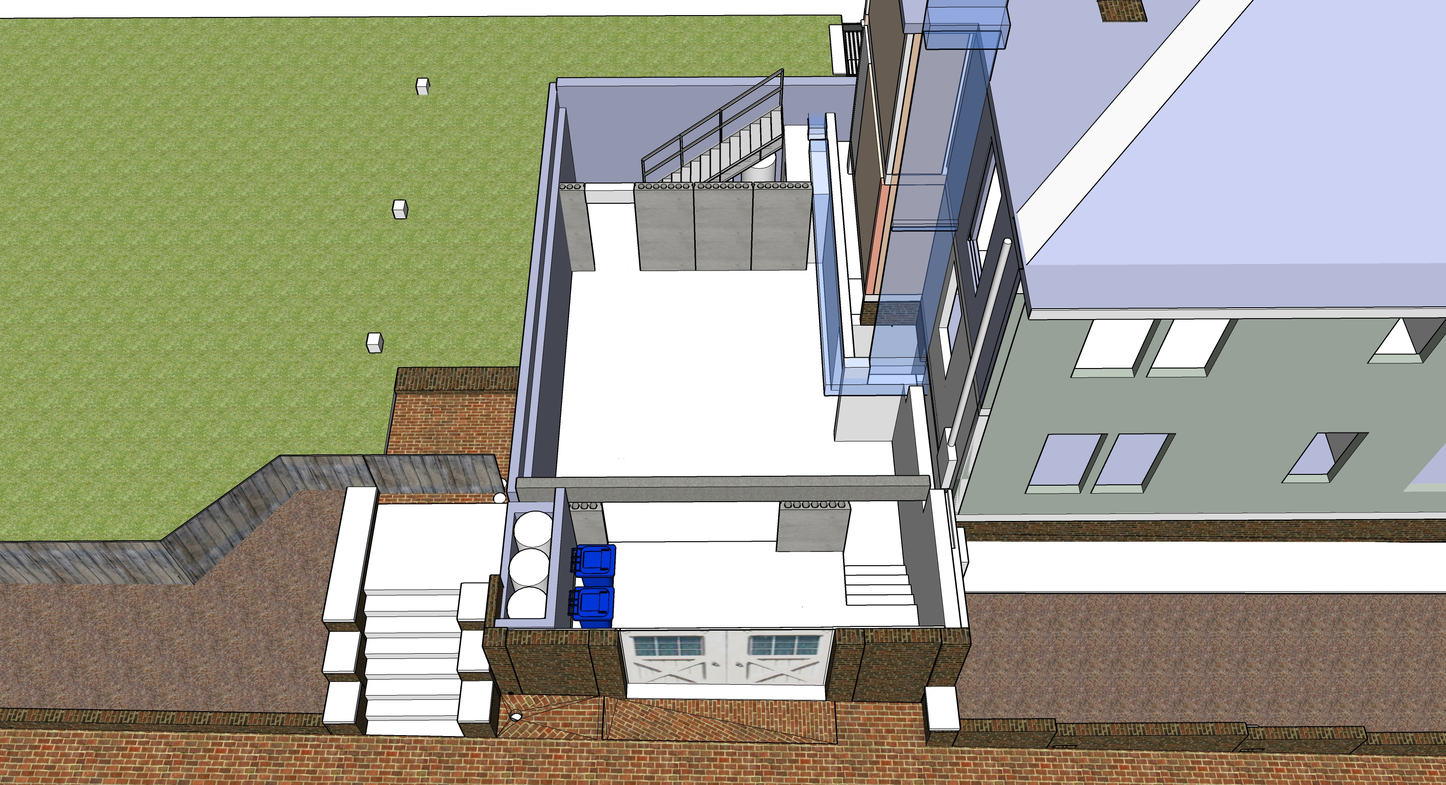
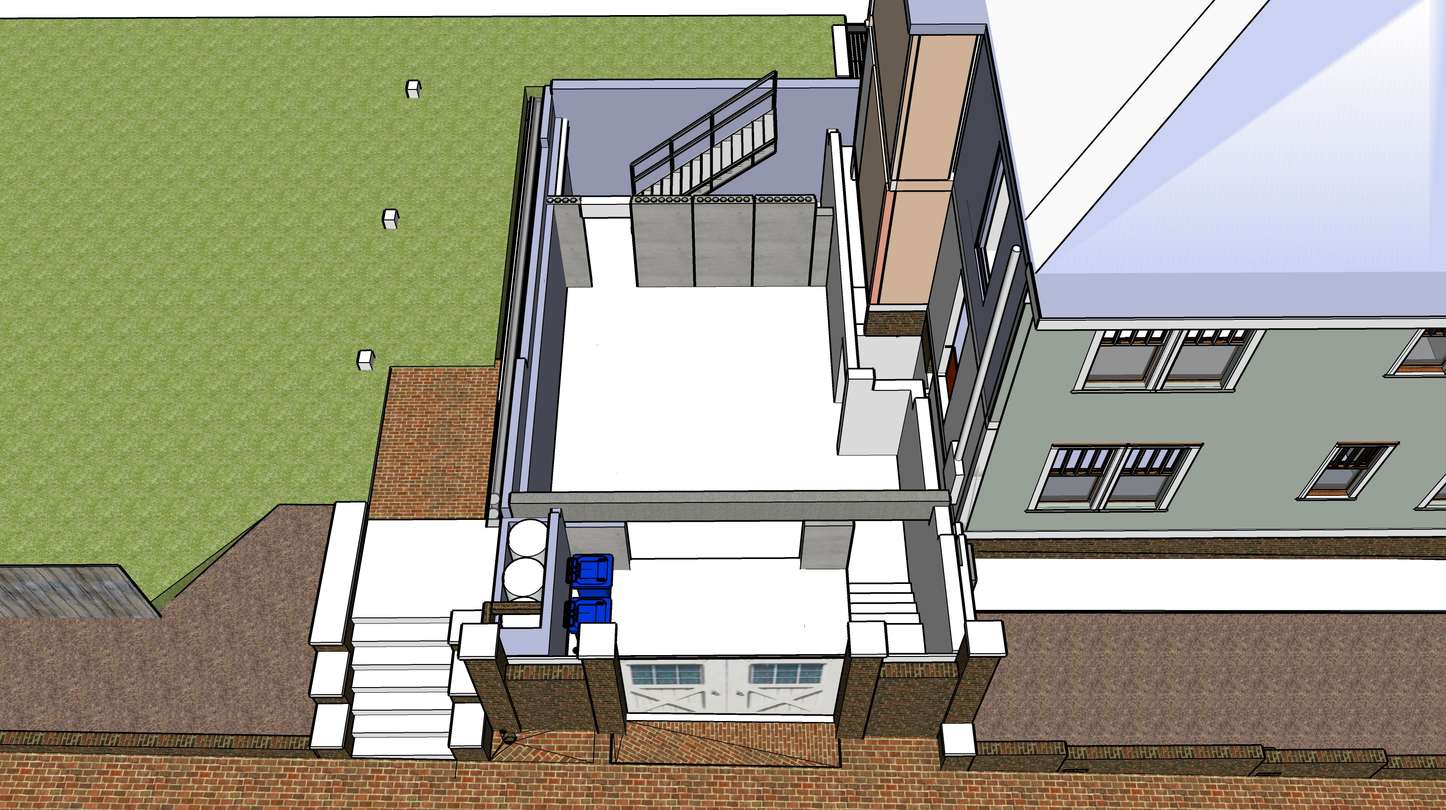
Updates

diff --git a/phases/README.md b/phases/README.md
@@ -15,10 +15,9 @@ Projects indicated as "(small)" may be done independently by home owner.
 
 | Art Shed. Remove Kitchen Ceilings. Cement AC Pad. Move AC Units | Min | Max |
 |---|---|---|
-| Art shed and AC grate planning | $500 | $1200 |
-| Small adjacent freezer for new kitchen - Place upstairs (will move downstairs later) | $1,400 | $1,800 |
 | Jackhammer existing north cement for AC pad. Remove cement.  (small)  | $400 | $800 |
 | Pour cement pad for AC Units (small) | $600 | $800 |
+| Move AC Units, extend freon lines | $600 | $800 |
 | Cement bases for art shed footers (small) | $200 | $550 |
 | Remove 1 of 2 west brick wall where trash resides. Bricks will be used for the shed footers (small) | $400 | $600 |
 | 6 brick columns for shed. If short on bricks, some under portion being removed can be used (small) | $300 | $600 |
@@ -29,13 +28,16 @@ Projects indicated as "(small)" may be done independently by home owner.
 | Assemble art shed. Wood from rear wall of kitchens can be used later (small) | $1,000 | $2,000 |
 | Cut up renaining branches of downed tree (small) | $200 | $300 |
 | Remove ceiling and south wall in both kitchens. Truck to cart off mortar and backing wood. (small) | $800 | $1,500 |
-| Move AC Units, extend freon lines | $600 | $800 |
-| Purchase and install weatherproof west door to crawl space for existing hole under removed rear. About 2' tall by 3.5' wide | $400 | $800 |
+| Cabinet-size freezer for new kitchen - Place upstairs (will move downstairs later) | $1,400 | $1,800 |
+| Weatherproof west door to crawl space for existing hole under removed rear. About 2' tall by 3.5' wide | $400 | $800 |
 | Repoint existing bricks (north side is done), repair crawlsoace vent openings, patch wood holes. | $1,000 | $2,000 |
 
 <br><br>
 
 <a href="../phases/img/initial-AC-units.jpg"><img src="../phases/img/initial-AC-units.jpg" style="width:100%; max-width:1200px"></a>  
+<br>
+Prior to removal of rear laundry areas.<br>
+<a href="../phases/img/initial.jpg"><img src="../phases/img/initial.jpg" style="width:100%; max-width:1200px"></a>  
 <br>
 
 ## Phase 2 - Basement and Brickwork
@@ -95,6 +97,9 @@ Possible resource: Fernando Garcia 404-538-2458 - Basement on Georgia Ave (July 
  
 <br><br>
 <a href="../framework/img/framework-above.jpg"><img src="../framework/img/framework-above.jpg" style="width:100%; max-width: 1200px"></a><br>
+
+<br><br>
+<a href="../exterior/img/west.jpg"><img src="../exterior/img/west.jpg" style="width:100%; max-width: 1200px"></a><br>
 
 
 ## Phase 4 - Painting Exterior, Replace Existing Storm Windows
@@ -222,11 +227,13 @@ Atlanta-based Thomas Concrete has been using the Canadian CarbonCure system sinc
 <a href="../phases/img/coreslab.jpg"><img src="../phases/img/coreslab.jpg" style="width:100%; max-width:1200px"></a>  
 <br>
 
-Hollow Core slabs will provide a heat-sink in the main floor, storing heat generated from solar energy to radiate out at night.  
-
 8” slab + 2” concrete topping. 10” total.  
 
- 2” Acid Wash Cement cover (Structural, composite concrete topping)
+Hollow Core slabs could provide a heat-sink in the main floor, storing heat generated from solar energy to radiate out at night.  
+
+<b>Options to investigate</b>
+1. Heating with ten 48' airflow loops within concrete. Thin top surface. Same heating unit would also heat home air for quick heating.  
+2. Heating with water pipes within 2” Acid Wash Cement cover (Structural, composite concrete topping)
 
  <!--
  	Coreslab Structure (Atlanta) - Met Sales Rep Jay Rubinson jrubinson@coreslab.com 770-471-1150
@@ -247,9 +254,11 @@ Hollow Core slabs will provide a heat-sink in the main floor, storing heat gener
 [8" Hollowcore with no composite topping](https://concreteindustries.com/wp-content/uploads/2017/07/Hollowcore-Load-Table-No-Composite.pdf)
 <br><br>
 
+<!--
 <img src="../phases/img/concrete/core-slab-pcm.jpg" style="width:100%; max-width:800px"><br>
+-->
 
-PCM placed in hollow core tubes as a thermal storage and supply system <a href="https://www.sciencedirect.com/science/article/abs/pii/S0378778815300591">PCM Research</a><br>
+PCM can be placed in hollow core tubes as a thermal storage and supply system <a href="https://www.sciencedirect.com/science/article/abs/pii/S0378778815300591">PCM Research</a><br>
 Note that external air is NOT sent through the hollow core slab. Air moves in a loop.
 <br><br>
 

diff --git a/README.md b/README.md
@@ -23,7 +23,13 @@ Land Area 7,501 ft² from [clustrmaps.com](https://clustrmaps.com)<!-- source ht
 
 <a href="floorplan/img/survey.jpg"><img src="floorplan/img/survey.jpg" style="width:100%; max-width: 1200px"></a><br><br> 
 
-<!-- TGI Wood Engineered Joists - better quality than dimensional lumber
+<!-- 
+Survey in January 2014
+JOHN STANZILIS solarlandsurvey@yahoo.com
+solarlandsurveying.com
+
+
+TGI Wood Engineered Joists - better quality than dimensional lumber
 
 Plywood ($22) deals with water better than OSB $20  
 Windows have a tendency to leak over the years
